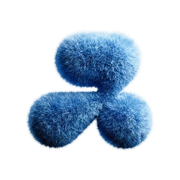
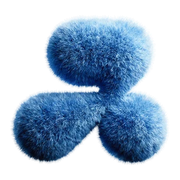
O pe do painel vira degrade, e some o retangulo atras do texto
Eram DUAS bordas retas ali, e as duas apareciam.

A primeira era a propria faixa: bloco chapado de rgba(12,12,12,.58) com uma
linha branca no topo. Bloco translucido deixa passar inteiro o que esta
atras, entao quando uma forma clara da grade caia ali (o circulo osso), ela
atravessava o vidro e virava um segundo retangulo mais claro atras do texto.
Medido: na linha do titulo davam SETE saltos de tom atravessando a faixa.

A segunda era minha, e entrou junto com as barrinhas. Ao esticar o bloco de
texto ate a margem, ele levou junto um vidro proprio de blur 26 que estava na
regra e passou despercebido enquanto ele era estreito. Esticado, virou um
retangulo do tamanho da faixa.

Agora o vidro e um so, degrade, nascendo do nada la em cima: nao existe topo
pra enxergar, e o que passa por tras chega como sombra em vez de bloco. As
paradas do degrade nao sao gosto, sao contraste: na altura do titulo a tinta
precisa chegar perto de .60 pra o branco passar em AA com a forma osso atras.

Conferido no pior caso, o slide da grade:
  saltos de tom atravessando a faixa   7 -> 0
  borda vertical do bloco de texto     existia -> some (x26 e x34 iguais)
  contraste do titulo                  3,6:1 -> 5,1:1
  contraste do apoio                   -> 8,8:1

FAVICON
Opcao A escolhida: o pelo azul num quadrado branco de cantos arredondados, e
maior do que estava. O fundo branco nao e enfeite, o pelo tem alpha e sumiria
na aba escura.

diff --git a/app/telas-de-conta.css b/app/telas-de-conta.css
@@ -250,21 +250,40 @@ body:has(.tc.login-split) .rodape-legal{ display:none; }
      em volta (e no site entrou, pra levar pra home), o pai passa a medir a
      largura intrinseca do PNG e os 22% viram 22% de 300px. O logo encolhia
      de 155 pra 66 sem ninguem tocar no CSS. */
-  .tc .marca{ width:min(196px,21%); }.tc .marca a{ display:block; }.tc .marca img{ width:100%; height:auto; display:block; transition:filter 400ms var(--easing); }.tc .painel[data-sobre="foto"] .marca img{ filter:invert(1); }.tc .rodape-painel{
+  .tc .marca{ width:min(196px,21%); }.tc .marca a{ display:block; }.tc .marca img{ width:100%; height:auto; display:block; transition:filter 400ms var(--easing); }.tc .painel[data-sobre="foto"] .marca img{ filter:invert(1); }
+/* O pe do painel: degrade, nao retangulo.
+     Eram DUAS bordas retas aqui, e as duas apareciam.
+     A primeira era a propria faixa: um bloco chapado de rgba(12,12,12,.58)
+     com uma linha branca no topo. Bloco translucido deixa passar inteiro o
+     que esta atras, entao quando uma forma clara da grade caia ali, ela
+     virava um segundo retangulo mais claro atras do texto.
+     A segunda era o bloco de texto, que tinha vidro proprio de blur 26. Com
+     ele estreito ninguem reparava; quando as barrinhas o esticaram ate a
+     margem, o vidro virou um retangulo do tamanho da faixa inteira.
+     Agora o vidro e um so, ele e degrade, e nasce do nada la em cima: nao ha
+     topo pra enxergar, e o que passa por tras chega como sombra e nao como
+     bloco. O bloco de texto nao pinta mais nada, so cresce. */
+  .tc .rodape-painel{
     position:absolute; left:0; right:0; bottom:0; z-index:5;
-    display:flex; align-items:center; gap:var(--e-5);
-    padding:var(--e-5) var(--e-6);
-    background:rgba(12,12,12,.58);
-  }
-/* O bloco cresce ate a margem da faixa. Quem aproveita sao as barrinhas,
-     que tem flex:1 e passam a dividir a largura toda. A frase e o apoio sao
-     bloco alinhado a esquerda, entao ficam exatamente onde estavam. */
-  .tc .rodape-painel .texto{ flex:1; min-width:0;
-    -webkit-backdrop-filter:blur(26px) saturate(170%);
-            backdrop-filter:blur(26px) saturate(170%);
-    border-top:1px solid rgba(255,255,255,.10);
+    display:flex; align-items:flex-end; gap:var(--e-5);
+    padding:96px var(--e-6) var(--e-5);
     color:#fff;
-  }.tc .texto{
+    /* As paradas nao sao gosto, sao contraste. Na altura em que o titulo cai,
+       a tinta precisa chegar perto de .60 pra o branco passar em AA mesmo com
+       a forma OSSO da grade atras, que e quase branca. */
+    background:linear-gradient(to bottom,
+      rgba(12,12,12,0) 0%,
+      rgba(12,12,12,.24) 30%,
+      rgba(12,12,12,.66) 56%,
+      rgba(12,12,12,.88) 100%);
+    -webkit-backdrop-filter:blur(3px);
+    backdrop-filter:blur(3px);
+    -webkit-mask-image:linear-gradient(to bottom, rgba(0,0,0,0) 0%, rgba(0,0,0,1) 45%);
+    mask-image:linear-gradient(to bottom, rgba(0,0,0,0) 0%, rgba(0,0,0,1) 45%);
+  }
+/* So cresce ate a margem, pras barrinhas dividirem a largura toda. Nada de
+     fundo, vidro ou borda aqui: quem faz o escuro e a faixa. */
+  .tc .rodape-painel .texto{ flex:1; min-width:0; }.tc .texto{
     min-width:0;
     transition:opacity 240ms var(--easing), transform 240ms var(--easing);
   }.tc .texto[data-trocando="true"]{ opacity:0; transform:translateY(8px); }.tc .frase{
